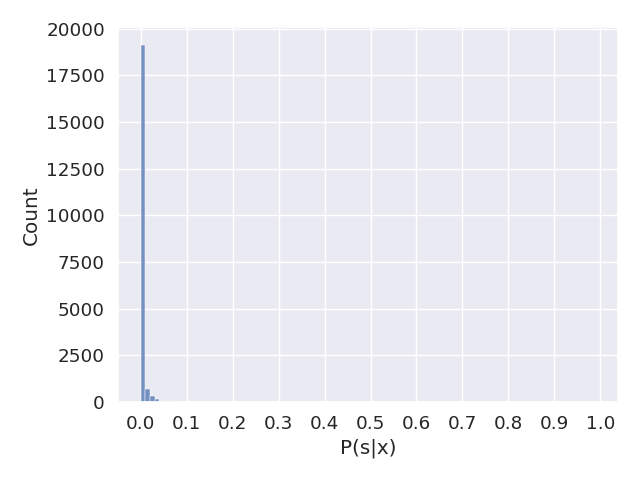
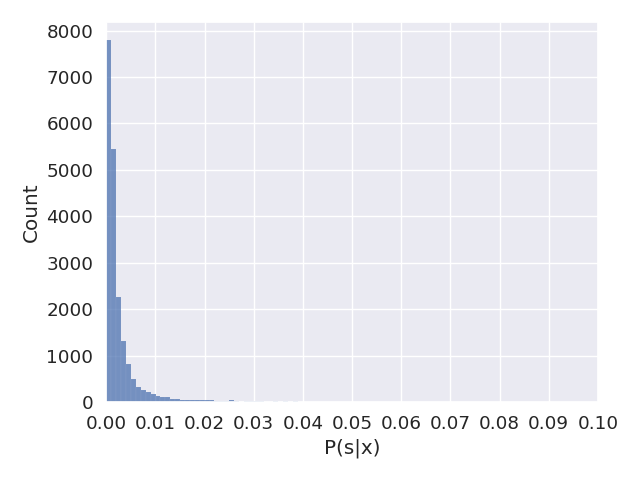
Add psx analysis

Changed region(s): [[0.0312, 0.0312, 0.875, 0.9688], [0.9062, 0.8438, 0.9688, 0.9062]]

diff --git a/bias_correction_and_summaries/probability_analysis.py b/bias_correction_and_summaries/probability_analysis.py
@@ -12,18 +12,32 @@ _pa_output_path = os.path.join(bias_output_dir, 'probability_analysis')
 if not os.path.isdir(_pa_output_path):
     os.mkdir(_pa_output_path)
 
-binwidth = 0.01
+binwidth = 0.001
 
 
-def weight_distribution():
+def unlabelled_distribution():
     weighted_unlabelled_df = pd.read_csv(WEIGHTED_UNLABELLED_DATA)
 
     sns.set(font_scale=1.2)
 
     h = sns.histplot(weighted_unlabelled_df['P(s|x)'], binwidth=binwidth)
-    h.set_xticks(np.linspace(0, 1, 11))
+    h.set_xlim(0, 0.1)
+    h.set_xticks(np.linspace(0, 0.1, 11))
     plt.tight_layout()
     plt.savefig(os.path.join(_pa_output_path, 'unlabelled_distribution.png'))
+    plt.close()
+    plt.cla()
+    plt.clf()
+
+    weighted_labelled_df = pd.read_csv(WEIGHTED_LABELLED_DATA)
+    all_weighted_data = pd.concat([weighted_labelled_df, weighted_unlabelled_df])
+    sns.set(font_scale=1.2)
+    all_weighted_data[['P(s|x)']].describe().to_csv(os.path.join(_pa_output_path, 'summary.csv'))
+    h = sns.histplot(all_weighted_data['P(s|x)'], binwidth=binwidth)
+    h.set_xlim(0, 0.1)
+    h.set_xticks(np.linspace(0, 0.1, 11))
+    plt.tight_layout()
+    plt.savefig(os.path.join(_pa_output_path, 'underlying_distribution.png'))
     plt.close()
     plt.cla()
     plt.clf()
@@ -31,24 +45,39 @@ def weight_distribution():
 
 def probabilities_of_selecting_active_species():
     weighted_labelled_df = pd.read_csv(WEIGHTED_LABELLED_DATA)
-    if binwidth == 0.01:
-        bins = 101
-    else:
-        raise ValueError
 
+    bins = int((1 / 0.01) + 1)
     sns.set(font_scale=1.2)
 
-    h=sns.histplot(weighted_labelled_df, x='P(s|x)', bins=bins, hue=TARGET_COLUMN, multiple='stack')
+    h = sns.histplot(weighted_labelled_df, x='P(s|x)', bins=bins, hue=TARGET_COLUMN, multiple='stack')
     h.set_xticks(np.linspace(0, 1, 11))
     plt.tight_layout()
-    plt.savefig(os.path.join(_pa_output_path,'P(s|x)_labelled_distribution.png'))
+    plt.savefig(os.path.join(_pa_output_path, 'P(s|x)_labelled_distribution.png'))
+    plt.close()
+    plt.cla()
+    plt.clf()
+    bins = int((1 / binwidth) + 1)
+    h = sns.histplot(weighted_labelled_df, x='P(s|x)', bins=bins, hue=TARGET_COLUMN, multiple='stack')
+    h.set_xlim(0, 0.1)
+    h.set_xticks(np.linspace(0, 0.1, 11))
+    plt.tight_layout()
+    plt.savefig(os.path.join(_pa_output_path, 'P(s|x)_labelled_distribution_small.png'))
     plt.close()
     plt.cla()
     plt.clf()
 
+    actives = weighted_labelled_df[weighted_labelled_df[TARGET_COLUMN] == 1]
+    inactives = weighted_labelled_df[weighted_labelled_df[TARGET_COLUMN] == 0]
+    pd.DataFrame(
+        {'num': [actives['P(s|x)'].mean(), inactives['P(s|x)'].mean()]},
+        index=['active', 'inactive']).to_csv(
+        os.path.join(_pa_output_path, 'psmeans.csv'))
+
+
+
 
 def main():
-    weight_distribution()
+    unlabelled_distribution()
     probabilities_of_selecting_active_species()
 
 
